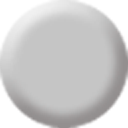
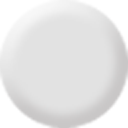
New functionality and images

diff --git a/Main/src/com/kierandroid/spacewars/Screens/GameScreen.java b/Main/src/com/kierandroid/spacewars/Screens/GameScreen.java
@@ -9,11 +9,13 @@ import com.badlogic.gdx.scenes.scene2d.InputEvent;
 import com.badlogic.gdx.scenes.scene2d.InputListener;
 import com.badlogic.gdx.scenes.scene2d.Stage;
 import com.kierandroid.spacewars.Controls.CameraController;
+import com.kierandroid.spacewars.Controls.FireButton;
 import com.kierandroid.spacewars.Controls.Joystick;
 import com.kierandroid.spacewars.EntryPoint;
-import com.kierandroid.spacewars.Enumerations.JoystickConfiguration;
+import com.kierandroid.spacewars.Enumerations.ControlsConfiguration;
 import com.kierandroid.spacewars.Enumerations.State;
 import com.kierandroid.spacewars.GameObjects.Asteroid;
+import com.kierandroid.spacewars.GameObjects.Atmosphere;
 import com.kierandroid.spacewars.GameObjects.Planet;
 import com.kierandroid.spacewars.GameObjects.SkySphere;
 import com.kierandroid.spacewars.Utilities.GameState;
@@ -25,11 +27,13 @@ public class GameScreen extends TransitionScreen
 
 	// 3D Game Objects
 	private Planet _planet;
+	private Atmosphere _atmosphere;
 	private SkySphere _skySphere;
 	private Asteroid _asteroid;
 
 	// Actors
 	Joystick _joystick;
+	FireButton _fireButton;
 
 	// Renderers
 	private SpriteBatch _batch;
@@ -41,8 +45,7 @@ public class GameScreen extends TransitionScreen
 	// Fonts
 	private BitmapFont _font;
 
-	private float pmouseX = 0.0f;
-	private float pmouseY = 0.0f;
+	private ControlsConfiguration _controlsConfiguration;
 
 	/**
 	 * Default constructor
@@ -65,8 +68,14 @@ public class GameScreen extends TransitionScreen
 		// Turn debugging on or off
 		GameState.DEBUG = true;
 
+		// Set the default controls configuration
+		_controlsConfiguration = ControlsConfiguration.Default;
+
 		// Create the planet
 		_planet = new Planet();
+
+		_atmosphere = new Atmosphere();
+		_atmosphere.mesh.scale(1.1f, 1.1f, 1.1f);
 
 		// Create the skysphere
 		_skySphere = new SkySphere();
@@ -104,7 +113,7 @@ public class GameScreen extends TransitionScreen
 	 */
 	private void setActors()
 	{
-		_joystick = new Joystick(JoystickConfiguration.Left);
+		_joystick = new Joystick(_controlsConfiguration);
 		_joystick.addListener(new InputListener() {
 			public boolean touchDown(InputEvent event, float x, float y, int pointer, int button) {
 				_joystick.touchDown(x, y);
@@ -120,7 +129,23 @@ public class GameScreen extends TransitionScreen
 			}
 		});
 
+		_fireButton = new FireButton(_controlsConfiguration);
+		//_fireButton.setPositionY(_joystick.center.Y);
+		_fireButton.addListener(new InputListener() {
+			public boolean touchDown(InputEvent event, float x, float y, int pointer, int button)
+			{
+				_fireButton.touchDown(x, y);
+				return true;
+			}
+
+			public void touchUp(InputEvent event, float x, float y, int pointer, int button)
+			{
+				_fireButton.touchUp(x, y);
+			}
+		});
+
 		_stage.addActor(_joystick);
+		_stage.addActor(_fireButton);
 	}
 
 	/**
@@ -144,6 +169,7 @@ public class GameScreen extends TransitionScreen
 
 		_skySphere.render(gl, delta);
 		_planet.render(gl, delta);
+		_atmosphere.render(gl, delta);
 		_asteroid.render(gl, delta);
 
 		// Swtich to 2D Mode for drawing of the HUD
@@ -166,8 +192,6 @@ public class GameScreen extends TransitionScreen
 		{
 			_batch.begin();
 			_font.draw(_batch, "FPS: " + Gdx.graphics.getFramesPerSecond(), 10, Gdx.graphics.getHeight() - 10);
-			_font.draw(_batch, "Latitude: " + _joystick.getPitch(), 10, Gdx.graphics.getHeight() - 25);
-			_font.draw(_batch, "Longitude: " + _joystick.getYaw(), 10, Gdx.graphics.getHeight() - 40);
 			_batch.end();
 		}
 
@@ -221,7 +245,10 @@ public class GameScreen extends TransitionScreen
 	public void dispose()
 	{
 		_stage.dispose();
-		_planet.texture.dispose();
-		_skySphere.texture.dispose();
+
+		_planet.dispose();
+		_atmosphere.dispose();
+		_asteroid.dispose();
+		_skySphere.dispose();
 	}
 }

diff --git a/Main/src/com/kierandroid/spacewars/Controls/FireButton.java b/Main/src/com/kierandroid/spacewars/Controls/FireButton.java
@@ -1,0 +1,96 @@
+package com.kierandroid.spacewars.Controls;
+
+import com.badlogic.gdx.Gdx;
+import com.badlogic.gdx.graphics.Texture;
+import com.badlogic.gdx.graphics.g2d.Sprite;
+import com.badlogic.gdx.graphics.g2d.SpriteBatch;
+import com.badlogic.gdx.graphics.g2d.TextureRegion;
+import com.badlogic.gdx.math.Rectangle;
+import com.badlogic.gdx.scenes.scene2d.Actor;
+import com.badlogic.gdx.scenes.scene2d.Touchable;
+import com.kierandroid.spacewars.Enumerations.ControlsConfiguration;
+import com.kierandroid.spacewars.Enumerations.State;
+import com.kierandroid.spacewars.Utilities.GameState;
+import com.kierandroid.spacewars.Utilities.GameUtils;
+
+public class FireButton extends Actor
+{
+	private Sprite buttonNormal;
+	private Sprite buttonPressed;
+	private Rectangle boundingBox;
+
+	public boolean isTouched = false;
+
+	private float positionX;
+	private float positionY;
+
+	public FireButton(ControlsConfiguration configuration)
+	{
+		this.setTouchable(Touchable.enabled);
+
+		// Set sprites
+		buttonNormal = new Sprite(new TextureRegion(new Texture(Gdx.files.internal("images/fire_button.png"))));
+		buttonPressed = new Sprite(new TextureRegion(new Texture(Gdx.files.internal("images/fire_button_pressed.png"))));
+
+		// Resize
+		GameUtils.resize(buttonNormal);
+		GameUtils.resize(buttonPressed);
+
+		// Set the bounding box
+		boundingBox = new Rectangle();
+		boundingBox.y = buttonNormal.getHeight()/2;
+		boundingBox.width = buttonNormal.getWidth();
+		boundingBox.height = buttonNormal.getHeight();
+
+		if (configuration == ControlsConfiguration.Default)
+		{
+			boundingBox.x = Gdx.graphics.getWidth() - (buttonNormal.getWidth()*1.5f);
+		}
+		else
+		{
+			boundingBox.x = buttonNormal.getHeight()/2;
+		}
+
+		positionX = (boundingBox.x + (boundingBox.getWidth()/2)) - (buttonNormal.getWidth()/2);
+		positionY = buttonNormal.getHeight()/2;
+
+		buttonNormal.setPosition(positionX, positionY);
+		buttonPressed.setPosition(positionX, positionY);
+	}
+
+	@Override
+	public void draw(SpriteBatch batch, float parentAlpha)
+	{
+		if (isTouched)
+		{
+			buttonPressed.draw(batch);
+		}
+		else
+		{
+			buttonNormal.draw(batch);
+		}
+	}
+
+	@Override
+	public Actor hit(float x, float y, boolean touchable)
+	{
+		if (GameState.currentState == State.Running)
+		{
+			return (x > boundingBox.x && x < (boundingBox.x+boundingBox.width) && y > boundingBox.y && y < (boundingBox.y+boundingBox.height)) ? this : null;
+		}
+		else
+		{
+			return null;
+		}
+	}
+
+	public void touchDown(float x, float y)
+	{
+		isTouched = true;
+	}
+
+	public void touchUp(float x, float y)
+	{
+		isTouched = false;
+	}
+}

diff --git a/Main/src/com/kierandroid/spacewars/GameObjects/Atmosphere.java b/Main/src/com/kierandroid/spacewars/GameObjects/Atmosphere.java
@@ -8,25 +8,23 @@ import com.badlogic.gdx.graphics.g3d.loaders.obj.ObjLoader;
 import com.badlogic.gdx.math.collision.BoundingBox;
 import com.badlogic.gdx.math.collision.Sphere;
 
-public class Asteroid
+public class Atmosphere
 {
-	public static final float ROTATION_SPEED = 100.0f;
-	public static final float ORBIT_SPEED = 50.0f;
+	public static final float ROTATION_SPEED = 5.0f;
 
 	public float rotation = 0.0f;
-	public float orbit = 0.0f;
 	public BoundingBox boundingBox;
 	public Sphere boundingSphere;
 	public Mesh mesh;
 	public Texture texture;
 
-	public Asteroid()
+	public Atmosphere()
 	{
 		// Load the sphere model
-		mesh = ObjLoader.loadObj(Gdx.files.internal("models/sphere.obj").read(), true);
+		mesh = ObjLoader.loadObj(Gdx.files.internal("models/planet.obj").read(), true);
 
 		// Load the texture
-		texture = new Texture(Gdx.files.internal("textures/moon.png"));
+		texture = new Texture(Gdx.files.internal("textures/atmosphere.png"));
 
 		// Create our bounding box
 		boundingBox = new BoundingBox();
@@ -38,34 +36,23 @@ public class Asteroid
 
 	public void render(GL10 gl, float delta)
 	{
-		//gl.glEnable(GL10.GL_BLEND);
-		//gl.glBlendFunc(GL10.GL_SRC_ALPHA, GL10.GL_ONE_MINUS_SRC_ALPHA);
+		// Turn on blending for our texture
+		gl.glEnable(GL10.GL_BLEND);
+		gl.glBlendFunc(GL10.GL_ONE_MINUS_SRC_ALPHA, GL10.GL_SRC_ALPHA);
 
-		// Don't draw the back faces of this model
 		gl.glCullFace(GL10.GL_BACK);
 
-		// Save the current matrix
 		gl.glPushMatrix();
 
-		// Update the orbit value of this model
-		orbit = (orbit + ORBIT_SPEED * delta) % 360;
-		gl.glRotatef(orbit, 1, 1, 0);
-
-		// Move the model to it's specified radius
-		gl.glTranslatef(0, 0, -1.20f);
-
-		// Spin the model
 		rotation = (rotation + ROTATION_SPEED * delta) % 360;
-		gl.glRotatef(rotation, 1, 1, 1);
+		gl.glRotatef(rotation, -1, -1, -1);
 
-		// Bind the texture and draw
 		texture.bind();
 		mesh.render(GL10.GL_TRIANGLES);
 
-		// Restore the matrix
 		gl.glPopMatrix();
 
-		//gl.glDisable(GL10.GL_BLEND);
+		gl.glDisable(GL10.GL_BLEND);
 	}
 
 	public void dispose()

diff --git a/Main/src/com/kierandroid/spacewars/Controls/Joystick.java b/Main/src/com/kierandroid/spacewars/Controls/Joystick.java
@@ -9,7 +9,7 @@ import com.badlogic.gdx.math.Circle;
 import com.badlogic.gdx.math.Rectangle;
 import com.badlogic.gdx.scenes.scene2d.Actor;
 import com.badlogic.gdx.scenes.scene2d.Touchable;
-import com.kierandroid.spacewars.Enumerations.JoystickConfiguration;
+import com.kierandroid.spacewars.Enumerations.ControlsConfiguration;
 import com.kierandroid.spacewars.Enumerations.State;
 import com.kierandroid.spacewars.Math.MathHelper;
 import com.kierandroid.spacewars.Math.Vector2d;
@@ -29,7 +29,7 @@ public class Joystick extends Actor
 	public Vector2d position;
 	public Vector2d rotationAxis;
 	
-	public Joystick(JoystickConfiguration configuration)
+	public Joystick(ControlsConfiguration configuration)
 	{
 		this.setTouchable(Touchable.enabled);
 
@@ -52,7 +52,7 @@ public class Joystick extends Actor
 		boundingBox.width = backgroundSprite.getWidth();
 		boundingBox.height = backgroundSprite.getHeight();
 
-		if (configuration == JoystickConfiguration.Left)
+		if (configuration == ControlsConfiguration.Default)
 		{
 			boundingBox.x = 0;
 		}

diff --git a/Main/src/com/kierandroid/spacewars/GameObjects/Planet.java b/Main/src/com/kierandroid/spacewars/GameObjects/Planet.java
@@ -36,13 +36,26 @@ public class Planet
 
 	public void render(GL10 gl, float delta)
 	{
+		//gl.glEnable(GL10.GL_BLEND);
+		//gl.glBlendFunc(GL10.GL_SRC_ALPHA, GL10.GL_ONE_MINUS_SRC_ALPHA);
+
 		gl.glCullFace(GL10.GL_BACK);
 
 		gl.glPushMatrix();
+
 		rotation = (rotation + ROTATION_SPEED * delta) % 360;
 		gl.glRotatef(rotation, 1, 1, 1);
 		texture.bind();
 		mesh.render(GL10.GL_TRIANGLES);
+
 		gl.glPopMatrix();
+
+		//gl.glDisable(GL10.GL_BLEND);
+	}
+
+	public void dispose()
+	{
+		texture.dispose();
+		mesh.dispose();
 	}
 }

diff --git a/Main/src/com/kierandroid/spacewars/GameObjects/SkySphere.java b/Main/src/com/kierandroid/spacewars/GameObjects/SkySphere.java
@@ -21,7 +21,7 @@ public class SkySphere
 		mesh = ObjLoader.loadObj(Gdx.files.internal("models/sphere.obj").read(), true);
 
 		// Load the texture
-		texture = new Texture(Gdx.files.internal("textures/space.png"));
+		texture = new Texture(Gdx.files.internal("textures/skysphere.png"));
 	}
 
 	public void render(GL10 gl, float delta)
@@ -34,5 +34,11 @@ public class SkySphere
 		texture.bind();
 		mesh.render(GL10.GL_TRIANGLES);
 		gl.glPopMatrix();
+	}
+
+	public void dispose()
+	{
+		texture.dispose();
+		mesh.dispose();
 	}
 }

diff --git a/Main/src/com/kierandroid/spacewars/Controls/CameraController.java b/Main/src/com/kierandroid/spacewars/Controls/CameraController.java
@@ -13,7 +13,7 @@ public class CameraController
 
 	// Camera constants
 	public static final float CAMERA_DISTANCE = 3.5f;
-	public static final float CAMERA_SPEED_MAX = 75.0f;
+	public static final float CAMERA_SPEED_MAX = 50.0f;
 
 	// Camera settings
 	private final float FOV = 45.0f;

diff --git a/Main/src/com/kierandroid/spacewars/Enumerations/ControlsConfiguration.java b/Main/src/com/kierandroid/spacewars/Enumerations/ControlsConfiguration.java
@@ -1,0 +1,7 @@
+package com.kierandroid.spacewars.Enumerations;
+
+public enum ControlsConfiguration
+{
+	Default,
+	Inverted
+}
